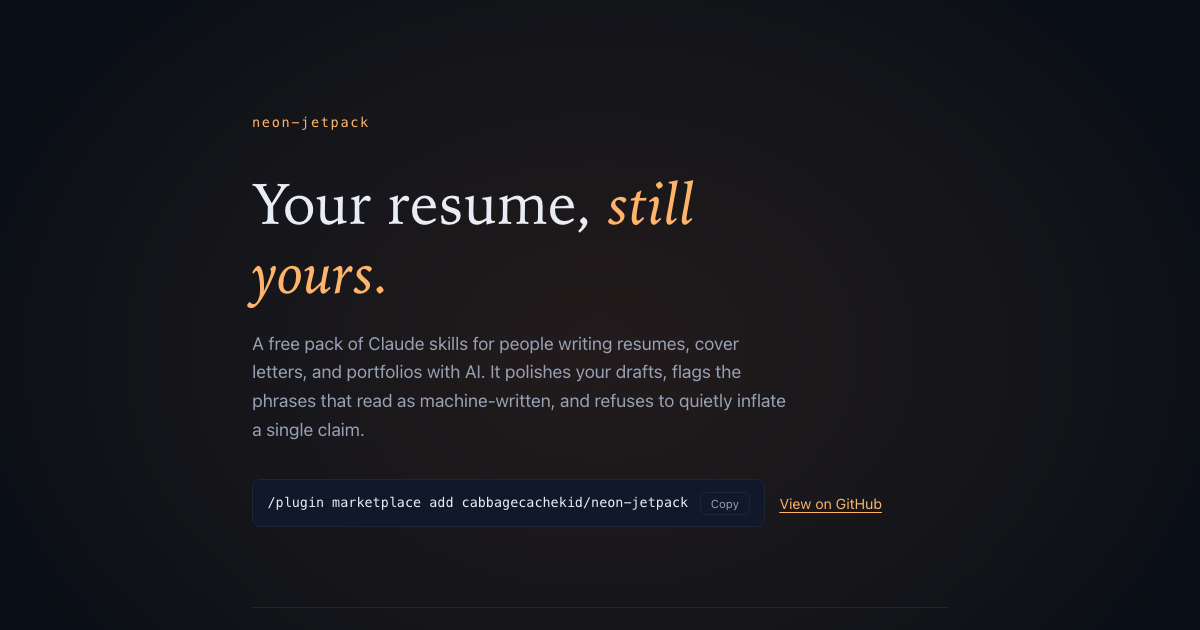
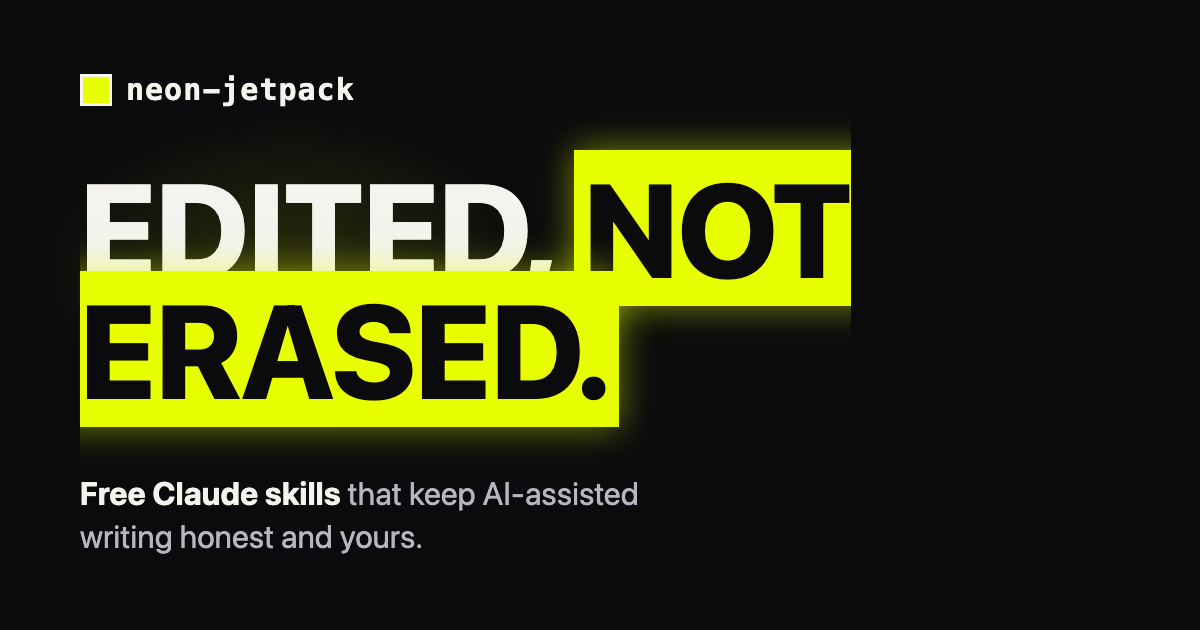
Refresh og.png for the neon-night design; point red-pen cross-link at its live page

Changed region(s): [[0.0617, 0.2111, 0.7092, 0.6937], [0.0617, 0.754, 0.74, 0.8746], [0.0617, 0.1206, 0.3083, 0.2111]]

diff --git a/docs/index.html b/docs/index.html
@@ -391,7 +391,7 @@
   </section>
 
   <footer>
-    <p class="related">Want just the writing-honesty trio? <a href="https://github.com/cabbagecachekid/red-pen">red-pen</a> is full-review, ai-written-check, and cringe-check on their own.</p>
+    <p class="related">Want just the writing-honesty trio? <a href="https://cabbagecachekid.github.io/red-pen/">red-pen</a> is full-review, ai-written-check, and cringe-check on their own.</p>
     <p>MIT license &middot; <a href="https://github.com/cabbagecachekid/neon-jetpack">Source on GitHub</a> &middot; By <a href="https://github.com/cabbagecachekid">cabbagecachekid</a></p>
     <p>No analytics, no trackers, no signup. It is a static page about free software.</p>
   </footer>
